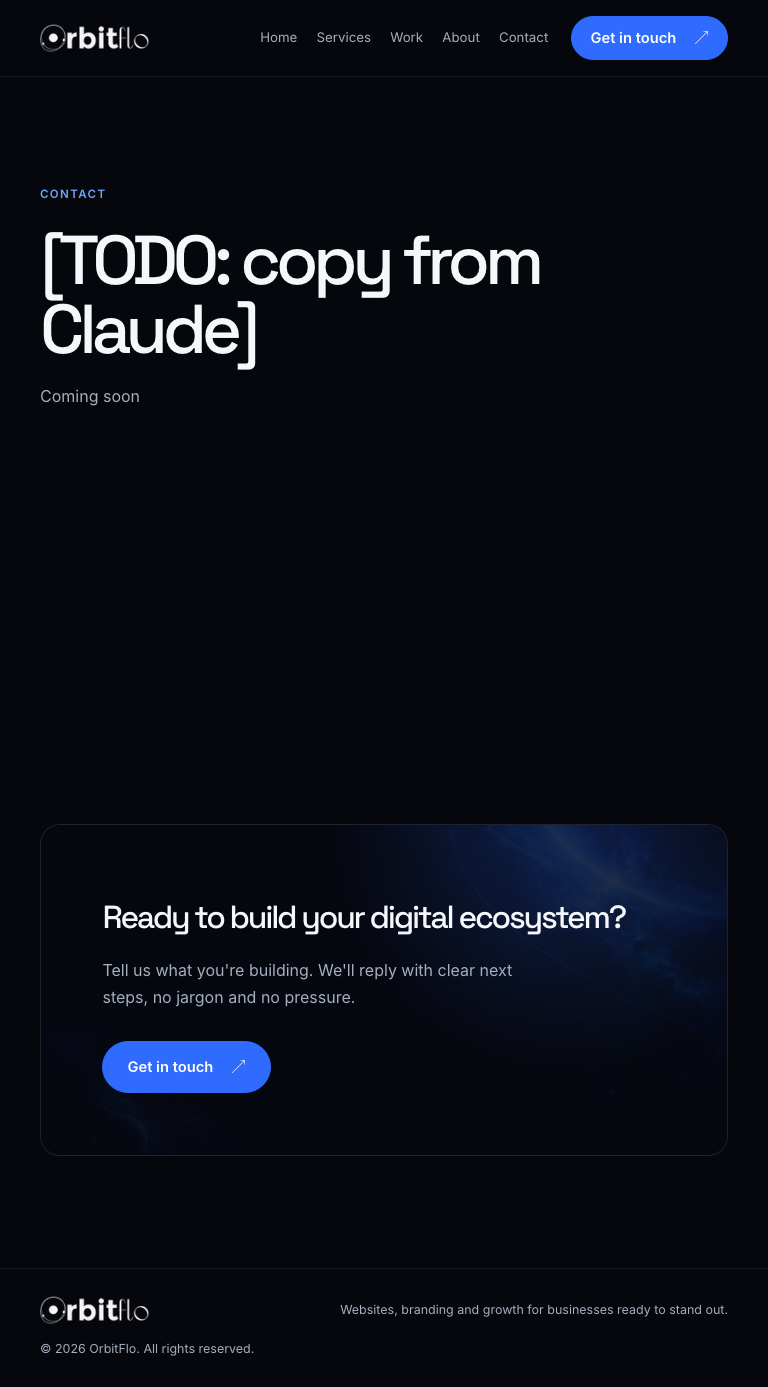
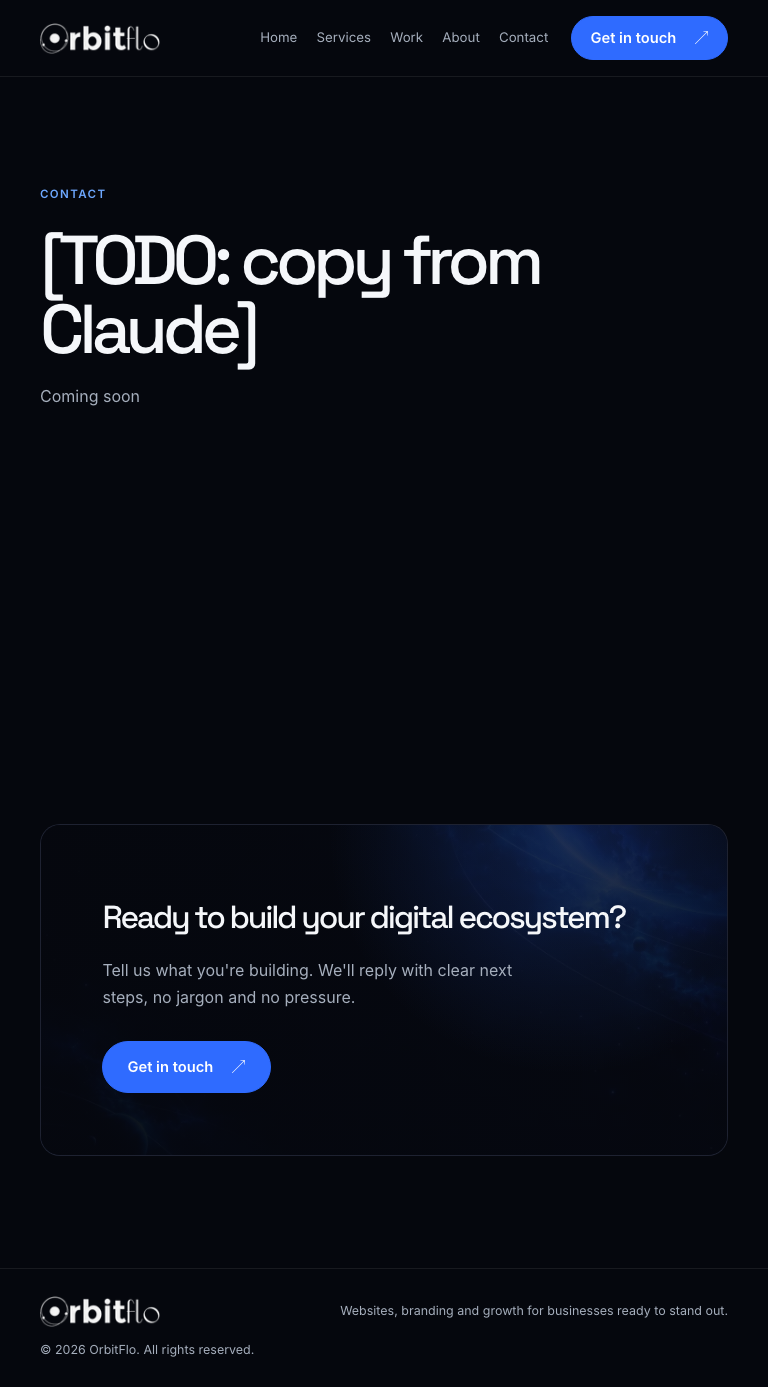
Polish responsive service and home layouts

diff --git a/src/app/globals.css b/src/app/globals.css
@@ -109,8 +109,8 @@ a:focus-visible {
 
 .wordmark-image {
   display: block;
-  width: 109px;
-  height: 28px;
+  width: 120px;
+  height: 31px;
 }
 
 .primary-navigation {
@@ -195,6 +195,13 @@ a:focus-visible {
   align-items: center;
   overflow: hidden;
   padding: clamp(104px, 13vh, 136px) 0 52px;
+}
+
+@media (min-width: 720px) {
+  .hero-section {
+    min-height: clamp(620px, 72svh, 760px);
+    padding: clamp(96px, 11vh, 112px) 0 80px;
+  }
 }
 
 .hero-grid {
@@ -434,27 +441,39 @@ h3 {
 .service-card {
   position: relative;
   display: flex;
-  min-height: 174px;
+  min-height: 190px;
   flex-direction: column;
   justify-content: space-between;
   border: 1px solid var(--border);
   border-radius: 14px;
   background: linear-gradient(145deg, rgba(255,255,255,.025), transparent 60%), var(--surface);
-  padding: 22px;
+  padding: 24px;
   transition: border-color 200ms ease, transform 200ms ease, background 200ms ease;
 }
 
 .service-card-image {
   position: absolute;
-  top: 12px;
-  right: 12px;
-  width: 96px;
-  height: 96px;
-  border-radius: 10px;
+  top: 50%;
+  right: -8px;
+  width: 184px;
+  height: 184px;
+  border-radius: 14px;
   object-fit: cover;
-  opacity: 0.72;
-  mask-image: linear-gradient(135deg, #000 36%, transparent 100%);
+  opacity: 0.76;
+  transform: translateY(-50%);
+  mask-image: linear-gradient(90deg, transparent 0%, #000 52%), linear-gradient(0deg, transparent 0%, #000 18%, #000 82%, transparent 100%);
+  mask-composite: intersect;
   transition: opacity 200ms ease, transform 200ms ease;
+}
+
+.service-card::after {
+  position: absolute;
+  z-index: 1;
+  inset: 0;
+  border-radius: inherit;
+  background: linear-gradient(90deg, var(--surface) 27%, rgba(11, 16, 32, 0.94) 48%, rgba(11, 16, 32, 0.2) 100%);
+  content: "";
+  pointer-events: none;
 }
 
 .service-card:hover {
@@ -465,12 +484,12 @@ h3 {
 
 .service-card:hover .service-card-image {
   opacity: 0.9;
-  transform: scale(1.04);
+  transform: translateY(-50%) scale(1.04);
 }
 
 .service-number {
   position: relative;
-  z-index: 1;
+  z-index: 2;
   color: var(--glow);
   font-size: 0.68rem;
   letter-spacing: 0.12em;
@@ -478,8 +497,8 @@ h3 {
 
 .service-card h3 {
   position: relative;
-  z-index: 1;
-  max-width: 230px;
+  z-index: 2;
+  max-width: min(68%, 250px);
   margin: 30px 26px 0 0;
   font-size: 1.24rem;
   font-weight: 500;
@@ -488,6 +507,7 @@ h3 {
 
 .service-arrow {
   position: absolute;
+  z-index: 2;
   right: 22px;
   bottom: 22px;
   font-size: 1.05rem;
@@ -637,12 +657,14 @@ h3 {
 
 .service-detail-grid {
   display: grid;
-  grid-template-columns: minmax(0, 0.9fr) minmax(0, 1.8fr);
+  grid-template-columns: minmax(0, 2fr) minmax(0, 3fr);
   align-items: center;
   gap: clamp(28px, 5vw, 64px);
 }
 
 .service-detail-image-wrap {
+  width: min(100%, 440px);
+  justify-self: center;
   overflow: hidden;
   border: 1px solid var(--border);
   border-radius: 16px;
@@ -658,18 +680,19 @@ h3 {
 }
 
 .service-detail-content {
-  display: grid;
-  grid-template-columns: minmax(0, 0.85fr) minmax(0, 1.15fr);
-  align-items: start;
-  gap: clamp(24px, 4vw, 52px);
+  display: flex;
+  flex-direction: column;
+  gap: 26px;
+  container-type: inline-size;
 }
 
-.service-detail:nth-child(even) .service-detail-image-wrap {
-  order: 2;
+.service-detail:nth-child(even) .service-detail-grid {
+  direction: rtl;
 }
 
-.service-detail:nth-child(even) .service-detail-content {
-  order: 1;
+.service-detail-image-wrap,
+.service-detail-content {
+  direction: ltr;
 }
 
 .service-detail-summary h2 {
@@ -700,11 +723,17 @@ h3 {
 .service-detail-included ul,
 .package-card ul {
   display: grid;
-  grid-template-columns: repeat(2, minmax(0, 1fr));
+  grid-template-columns: minmax(0, 1fr);
   gap: 12px 26px;
   margin: 0;
   padding: 0;
   list-style: none;
+}
+
+@container (min-width: 560px) {
+  .service-detail-included ul {
+    grid-template-columns: repeat(2, minmax(0, 1fr));
+  }
 }
 
 .service-detail-included li,
@@ -812,15 +841,16 @@ h3 {
 .not-found-image {
   z-index: 0;
   object-fit: cover;
-  object-position: 58% center;
-  opacity: 0.7;
+  object-position: center;
+  opacity: 0.96;
+  transform: scale(1.2) translateX(40%);
 }
 
 .not-found-overlay {
   position: absolute;
   z-index: 1;
   inset: 0;
-  background: linear-gradient(90deg, rgba(5, 7, 13, 0.96) 0%, rgba(5, 7, 13, 0.82) 56%, rgba(5, 7, 13, 0.55) 100%);
+  background: linear-gradient(90deg, rgba(5, 7, 13, 0.96) 0%, rgba(5, 7, 13, 0.82) 43%, rgba(5, 7, 13, 0.3) 100%);
 }
 
 .not-found-content {
@@ -903,8 +933,8 @@ h3 {
 
 @media (max-width: 719px) {
   .wordmark-image {
-    width: 90px;
-    height: 23px;
+    width: 101px;
+    height: 26px;
   }
 
   .hero-section {
@@ -952,26 +982,38 @@ h3 {
   .service-detail-grid {
     grid-template-columns: minmax(0, 1fr);
     gap: 24px;
+    direction: ltr !important;
   }
 
   .service-detail-image-wrap {
     width: 100%;
-    max-height: 280px;
-    aspect-ratio: 16 / 9;
+    max-height: none;
+    aspect-ratio: 1;
   }
 
   .service-detail-content {
-    grid-template-columns: minmax(0, 1fr);
     gap: 24px;
-  }
-
-  .service-detail:nth-child(even) .service-detail-image-wrap,
-  .service-detail:nth-child(even) .service-detail-content {
-    order: initial;
   }
 
   .service-detail-included ul {
     grid-template-columns: minmax(0, 1fr);
+  }
+
+  .service-card-image {
+    width: 160px;
+    height: 160px;
+  }
+
+  .service-card h3 {
+    max-width: 68%;
+  }
+
+  .not-found-image {
+    transform: scale(1.45) translateX(26%);
+  }
+
+  .not-found-overlay {
+    background: linear-gradient(90deg, rgba(5, 7, 13, 0.94) 0%, rgba(5, 7, 13, 0.68) 58%, rgba(5, 7, 13, 0.38) 100%);
   }
 
   .package-grid {

diff --git a/src/app/services/page.tsx b/src/app/services/page.tsx
@@ -48,7 +48,7 @@ export default function ServicesPage() {
                   className="service-detail-image"
                   height={800}
                   loading="lazy"
-                  sizes="(min-width: 720px) 32vw, calc(100vw - 40px)"
+                  sizes="(min-width: 720px) 40vw, calc(100vw - 40px)"
                   src={service.image}
                   width={800}
                 />

diff --git a/src/components/site-footer.tsx b/src/components/site-footer.tsx
@@ -11,7 +11,7 @@ export function SiteFooter() {
             alt="OrbitFlo"
             className="wordmark-image"
             height={site.logo.height}
-            sizes="110px"
+            sizes="(max-width: 719px) 101px, 120px"
             src={site.logo.src}
             width={site.logo.width}
           />

diff --git a/src/components/site-header.tsx b/src/components/site-header.tsx
@@ -22,7 +22,7 @@ export function SiteHeader() {
             className="wordmark-image"
             height={site.logo.height}
             priority
-            sizes="110px"
+            sizes="(max-width: 719px) 101px, 120px"
             src={site.logo.src}
             width={site.logo.width}
           />
